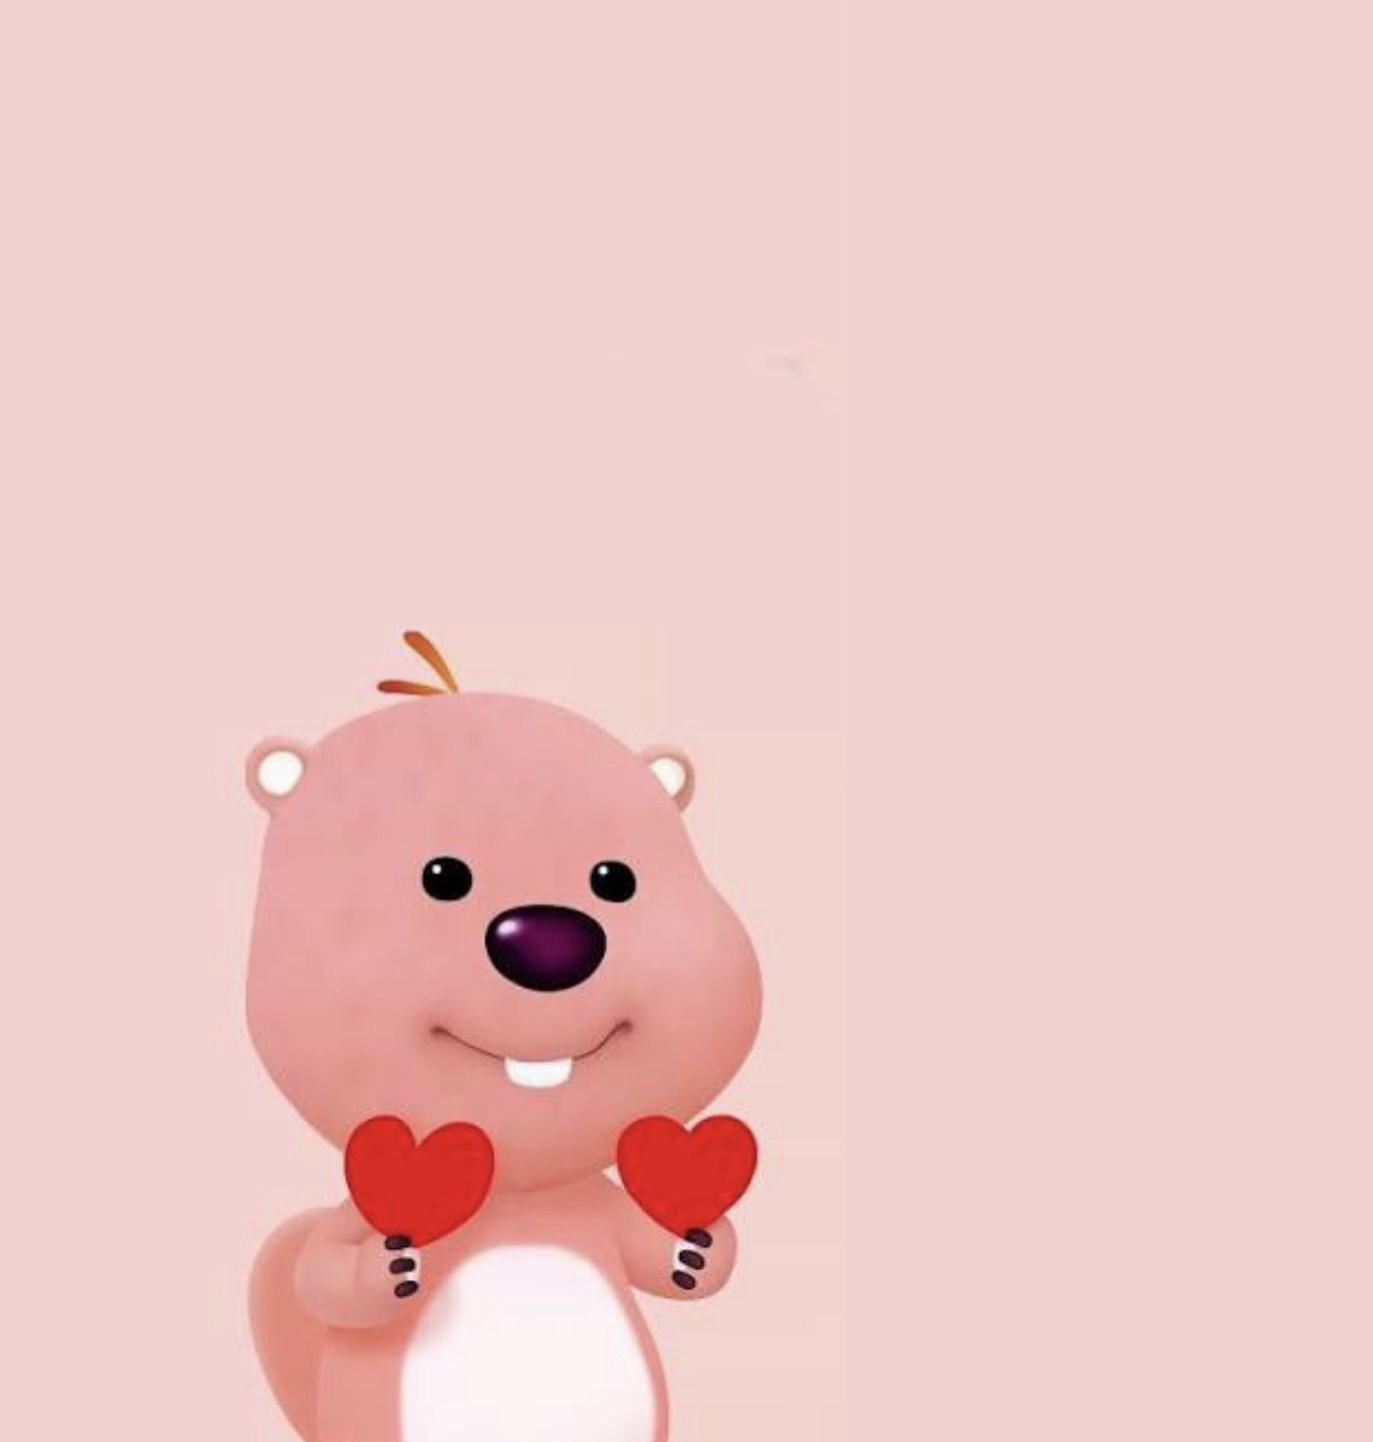
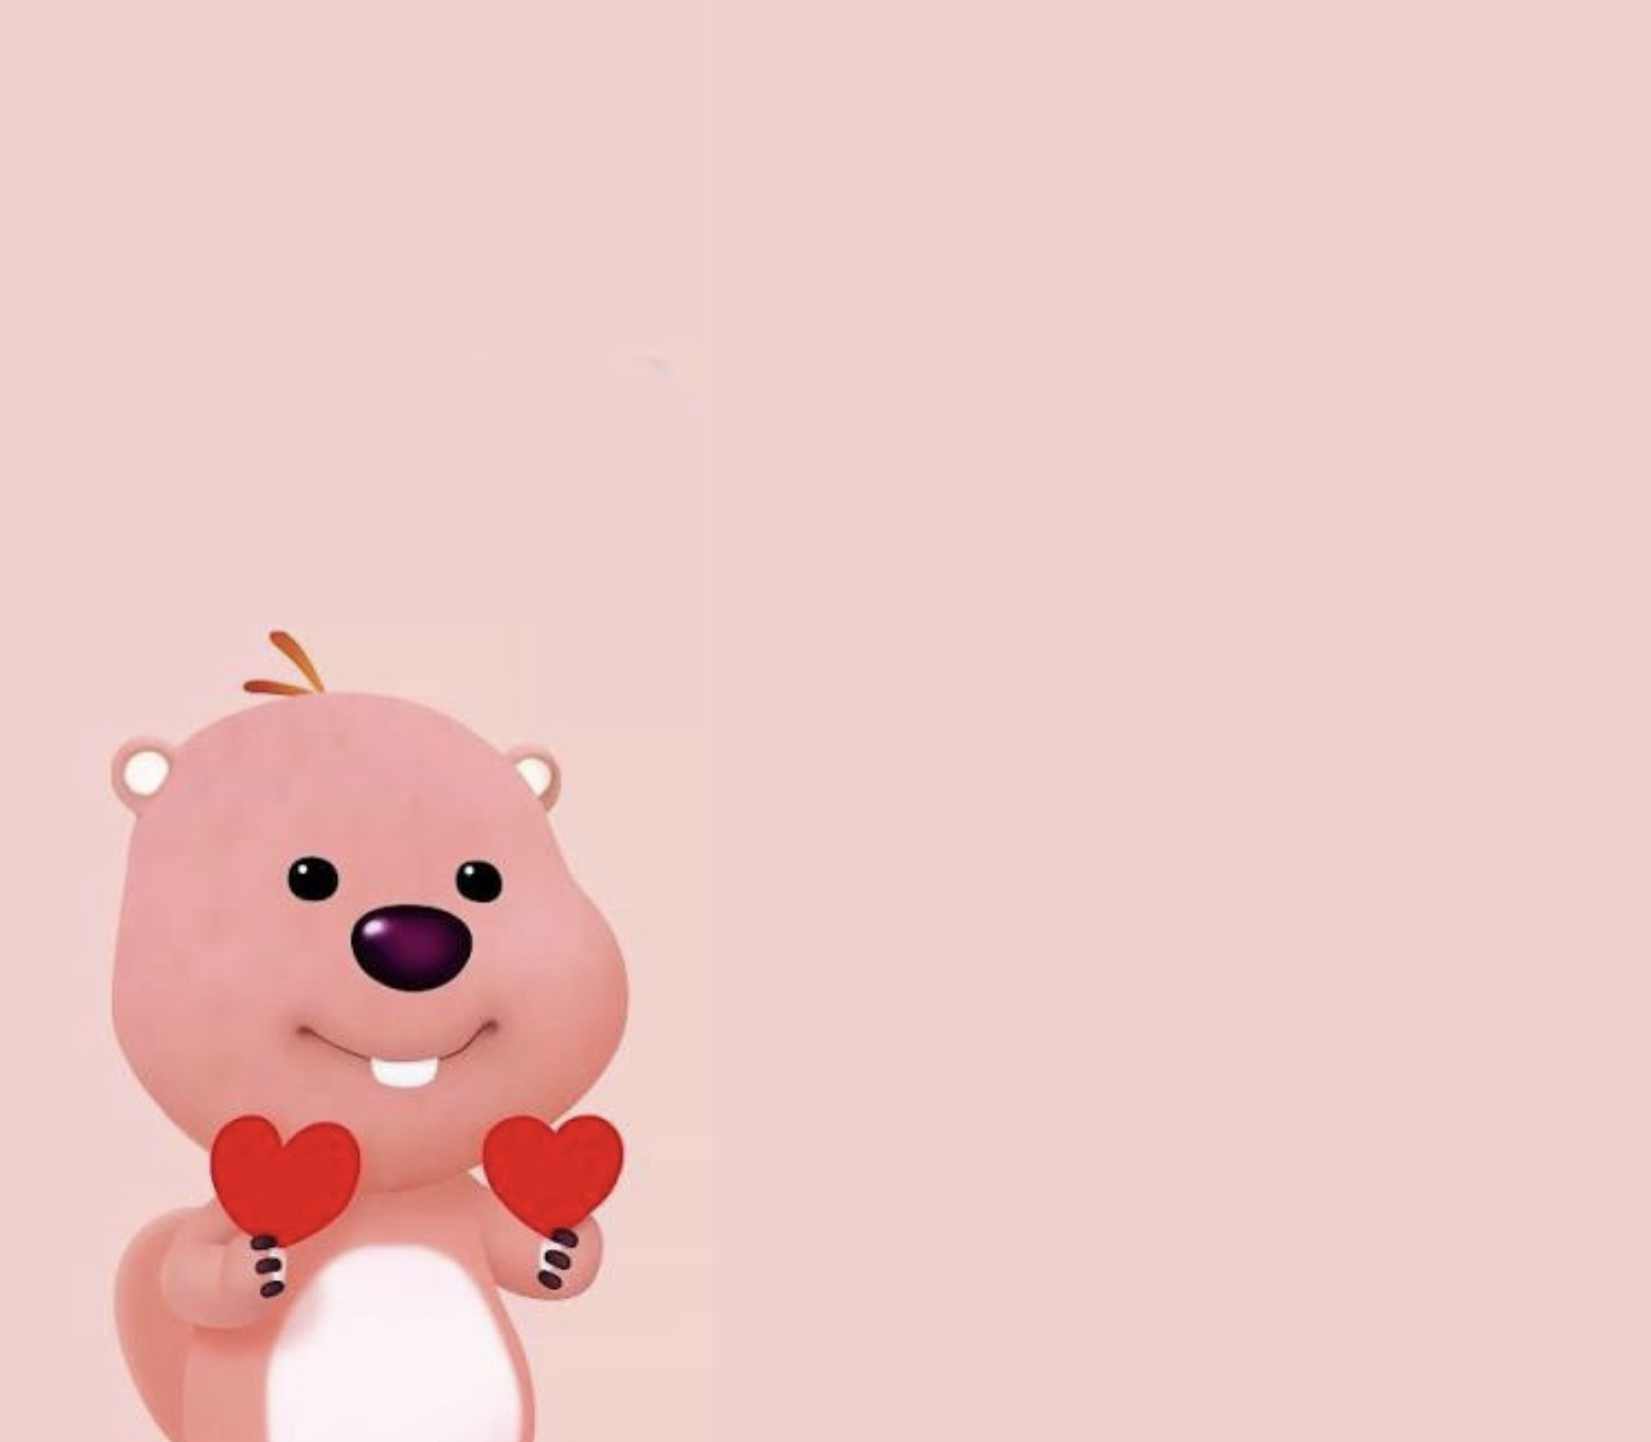
haesung hero: 새 비버(가로형·왼쪽 배치) cover 적용, 카드 우측

Changed region(s): [[0.0612, 0.4369, 0.5812, 1.0]]

diff --git a/haesung.html b/haesung.html
@@ -50,7 +50,7 @@
   .trip-empty{font-size:12.5px; color:var(--muted); background:#fbf4f8; border-radius:12px; padding:12px 13px; text-align:center; line-height:1.6;}
 
   /* dday hero — 사진 배경 + 반투명 카드 + 하트 */
-  .hero{position:relative; background:#f2d6d4 url('haesung-hero.png?v=2') -15px bottom/auto 135% no-repeat; border-radius:26px; min-height:262px; padding:0 22px 0 0; display:flex; align-items:center; justify-content:flex-end; text-align:center; margin-bottom:18px; overflow:hidden; box-shadow:0 10px 34px rgba(226,109,146,.16);}
+  .hero{position:relative; background:#f3d6d4 url('haesung-hero.png?v=3') center bottom/cover no-repeat; border-radius:26px; min-height:262px; padding:0 26px 0 0; display:flex; align-items:center; justify-content:flex-end; text-align:center; margin-bottom:18px; overflow:hidden; box-shadow:0 10px 34px rgba(226,109,146,.16);}
   .hero .frost{position:relative; z-index:2; background:rgba(255,255,255,.40); -webkit-backdrop-filter:blur(5px); backdrop-filter:blur(5px); border-radius:15px; padding:8px 20px; box-shadow:0 5px 15px rgba(80,60,90,.12);}
   .hero .lbl{font-size:11px; color:#5d4a55; font-weight:800; letter-spacing:.2px;}
   .hero .lbl i{color:var(--pink-deep); font-style:normal; margin:0 3px;}
